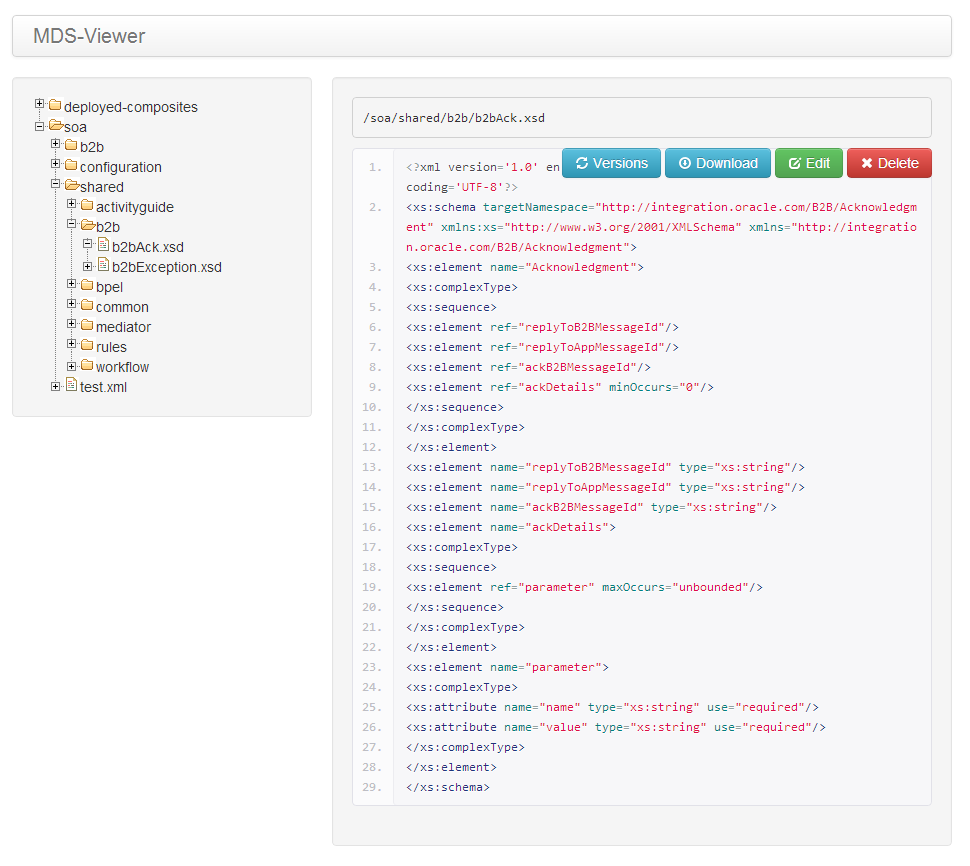
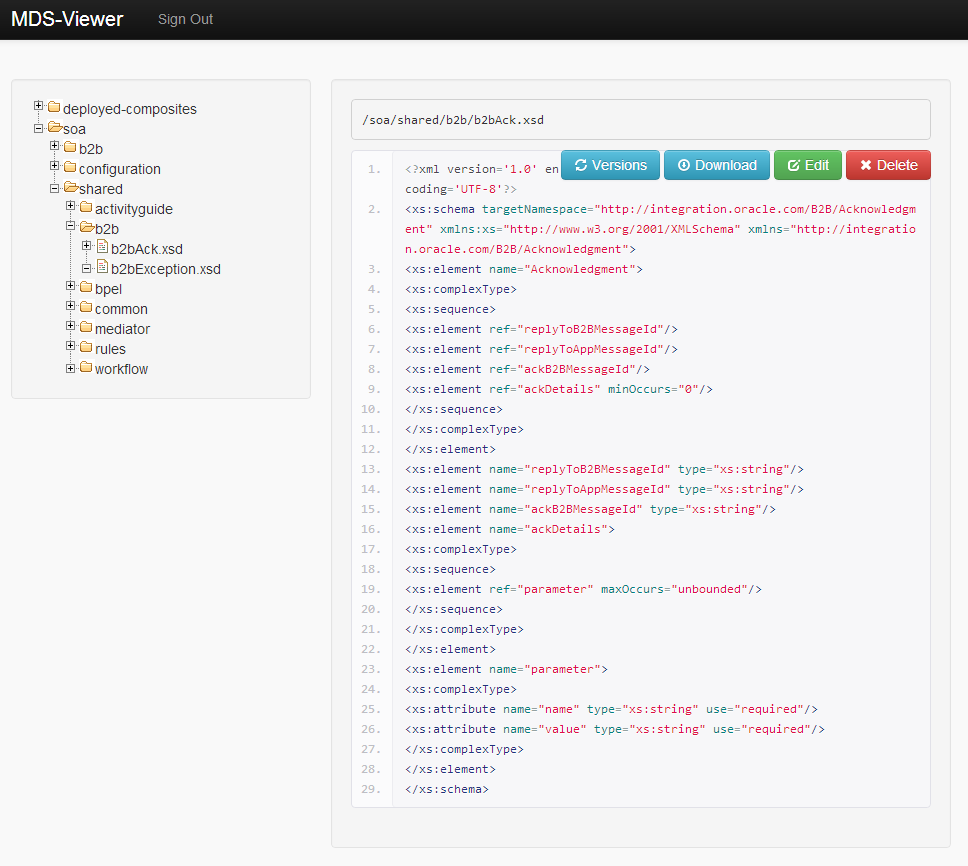
Spring Security Integration - logout/login Forms - UI Changes

diff --git a/src/main/webapp/login.html b/src/main/webapp/login.html
@@ -1,0 +1,38 @@
+<!DOCTYPE html>
+<html>
+<head>
+    <script src="js/jquery-1.8.3.min.js"></script>
+    <script src="js/jquery.treeview.js"></script>
+    <script src="js/bootstrap.min.js"></script>
+
+    <link type="text/css" rel="stylesheet" href="css/bootstrap.min.css">
+    <link type="text/css" rel="stylesheet" href="css/bootstrap-responsive.min.css">
+    <link type="text/css" rel="stylesheet" href="css/style.css">
+
+    <title>MDS-Viewer Login</title>
+</head>
+<body id="login">
+
+<div class="navbar navbar-inverse navbar-fixed-top">
+    <div class="navbar-inner">
+        <div class="container">
+            <span class="brand">MDS-Viewer</span>
+            <div class="nav-collapse collapse">
+                <ul class="nav">
+                    <li class="active"><a href="#">Sign In</a></li>
+                </ul>
+            </div>
+        </div>
+    </div>
+</div>
+<div class="container">
+    <form action="/j_spring_security_check" method="POST" class="form-signin">
+        <h2 class="form-signin-heading">Please sign in</h2>
+        <input id="username" name="j_username" type="text"  class="input-block-level" placeholder="User Name"/>
+        <input id="password" name="j_password" type="password"class="input-block-level" placeholder="Password"/>
+        <input type="submit" value="Sign In" class="btn btn-large btn-primary"/>
+    </form>
+</div>
+
+</body>
+</html>

diff --git a/src/main/webapp/login_error.html b/src/main/webapp/login_error.html
@@ -1,0 +1,37 @@
+<!DOCTYPE html>
+<html xmlns="http://www.w3.org/1999/html">
+<head>
+    <script src="js/jquery-1.8.3.min.js"></script>
+    <script src="js/jquery.treeview.js"></script>
+    <script src="js/bootstrap.min.js"></script>
+
+    <link type="text/css" rel="stylesheet" href="css/bootstrap.min.css">
+    <link type="text/css" rel="stylesheet" href="css/bootstrap-responsive.min.css">
+    <link type="text/css" rel="stylesheet" href="css/style.css">
+
+    <title>MDS-Viewer Login</title>
+</head>
+<body id="login">
+
+<div class="navbar navbar-inverse navbar-fixed-top">
+    <div class="navbar-inner">
+        <div class="container">
+            <span class="brand">MDS-Viewer</span>
+            <div class="nav-collapse collapse">
+                <ul class="nav">
+                    <li class="active"><a href="#">Sign In</a></li>
+                </ul>
+            </div>
+        </div>
+    </div>
+</div>
+<div class="container">
+    <form action="/j_spring_security_check" method="POST" class="form-signin">
+        <h2 class="form-signin-heading">Error</h2>
+        <p>Your login credentials are incorrect!</p>
+        <a class="btn btn-large btn-primary" href="/"/>Sign In Again</a>
+    </form>
+</div>
+
+</body>
+</html>

diff --git a/src/main/webapp/css/style.css b/src/main/webapp/css/style.css
@@ -1,7 +1,42 @@
-body {
-    padding-top: 20px;
+body#login {
+    padding-top: 80px;
+    padding-bottom: 40px;
+    background-color: #F9F9F9;
+}
+body#viewer {
+    padding-top: 80px;
+    padding-bottom: 40px;
+    background-color: #F9F9F9;
 }
 
+.navbar-inverse span.brand{
+    color:#FFF;
+}
+
+.form-signin {
+    max-width: 300px;
+    padding: 19px 29px 29px;
+    margin: 0 auto 20px;
+    background-color: #fff;
+    border: 1px solid #e5e5e5;
+    -webkit-border-radius: 5px;
+       -moz-border-radius: 5px;
+            border-radius: 5px;
+    -webkit-box-shadow: 0 1px 2px rgba(0,0,0,.05);
+       -moz-box-shadow: 0 1px 2px rgba(0,0,0,.05);
+            box-shadow: 0 1px 2px rgba(0,0,0,.05);
+}
+.form-signin .form-signin-heading,
+.form-signin .checkbox {
+    margin-bottom: 10px;
+}
+.form-signin input[type="text"],
+.form-signin input[type="password"] {
+    font-size: 16px;
+    height: auto;
+    margin-bottom: 15px;
+    padding: 7px 9px;
+}
 #fileSpinner {
     padding-top: 0px;
     position: relative;

diff --git a/src/main/webapp/index.html b/src/main/webapp/index.html
@@ -19,14 +19,20 @@
 
     <title>MDS-Viewer</title>
 </head>
-<body ng-controller="FileViewerController">
-<div class="container" role="main">
-    <div class="navbar">
-        <div class="navbar-inner">
-            <a class="brand" href="?">MDS-Viewer</a>
+<body ng-controller="FileViewerController" id="viewer">
+<div class="navbar navbar-inverse navbar-fixed-top">
+    <div class="navbar-inner">
+        <div class="container">
+           <span class="brand">MDS-Viewer</span>
+            <div class="nav-collapse collapse">
+                <ul class="nav">
+                    <li><a href="/j_spring_security_logout">Sign Out</a></li>
+                </ul>
+            </div>
         </div>
-
     </div>
+</div>
+<div class="container" role="main">
 
     <div class="row">
         <div class="span4">

diff --git a/README.md b/README.md
@@ -7,6 +7,7 @@ Screenshots
 -----------
 ![Folder View](https://raw.github.com/stetro/MDS-Viewer/master/folder.PNG)
 ![File View](https://raw.github.com/stetro/MDS-Viewer/master/file.PNG)
+![File View](https://raw.github.com/stetro/MDS-Viewer/master/login.PNG)
 
 Installation
 ------------
@@ -37,6 +38,8 @@ mds.password=
 mds.jdbc=
 mds.schema=
 ```
+
+Basic Login is weblogic/welcome1 (change in ``src/main/webapp/WEB-INF/security-app-context.xml``)
 
 License
 ---------------------
